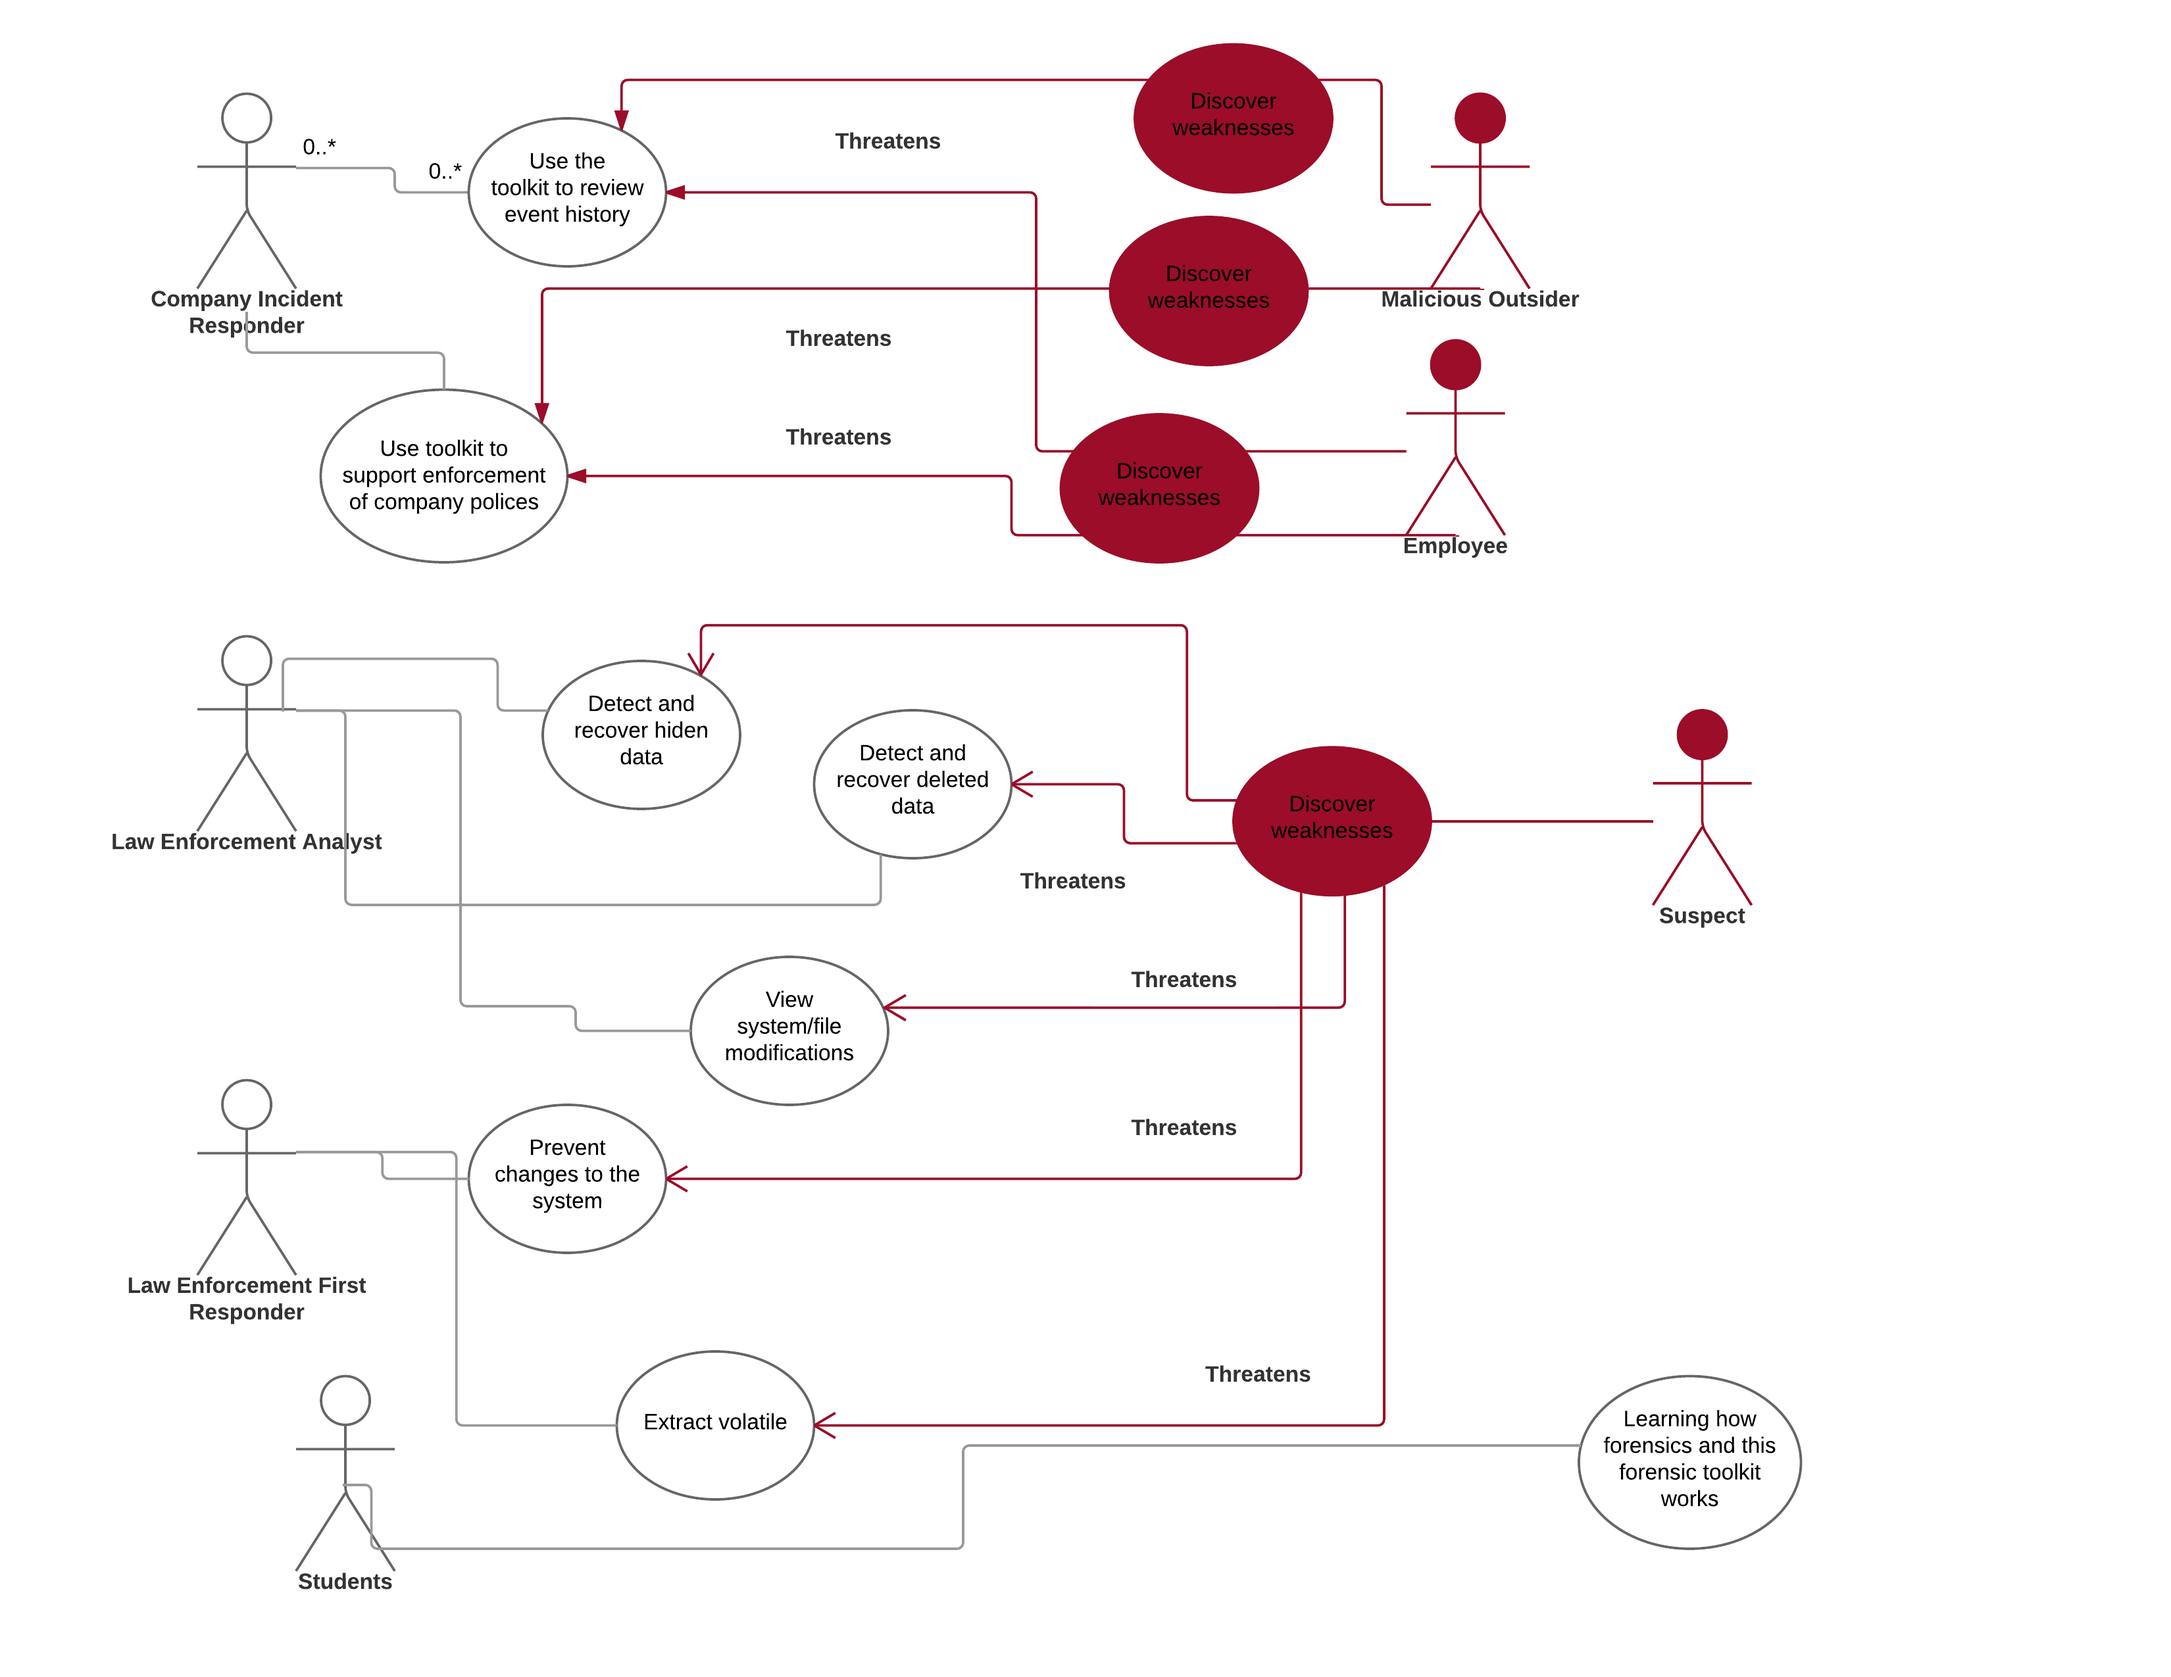
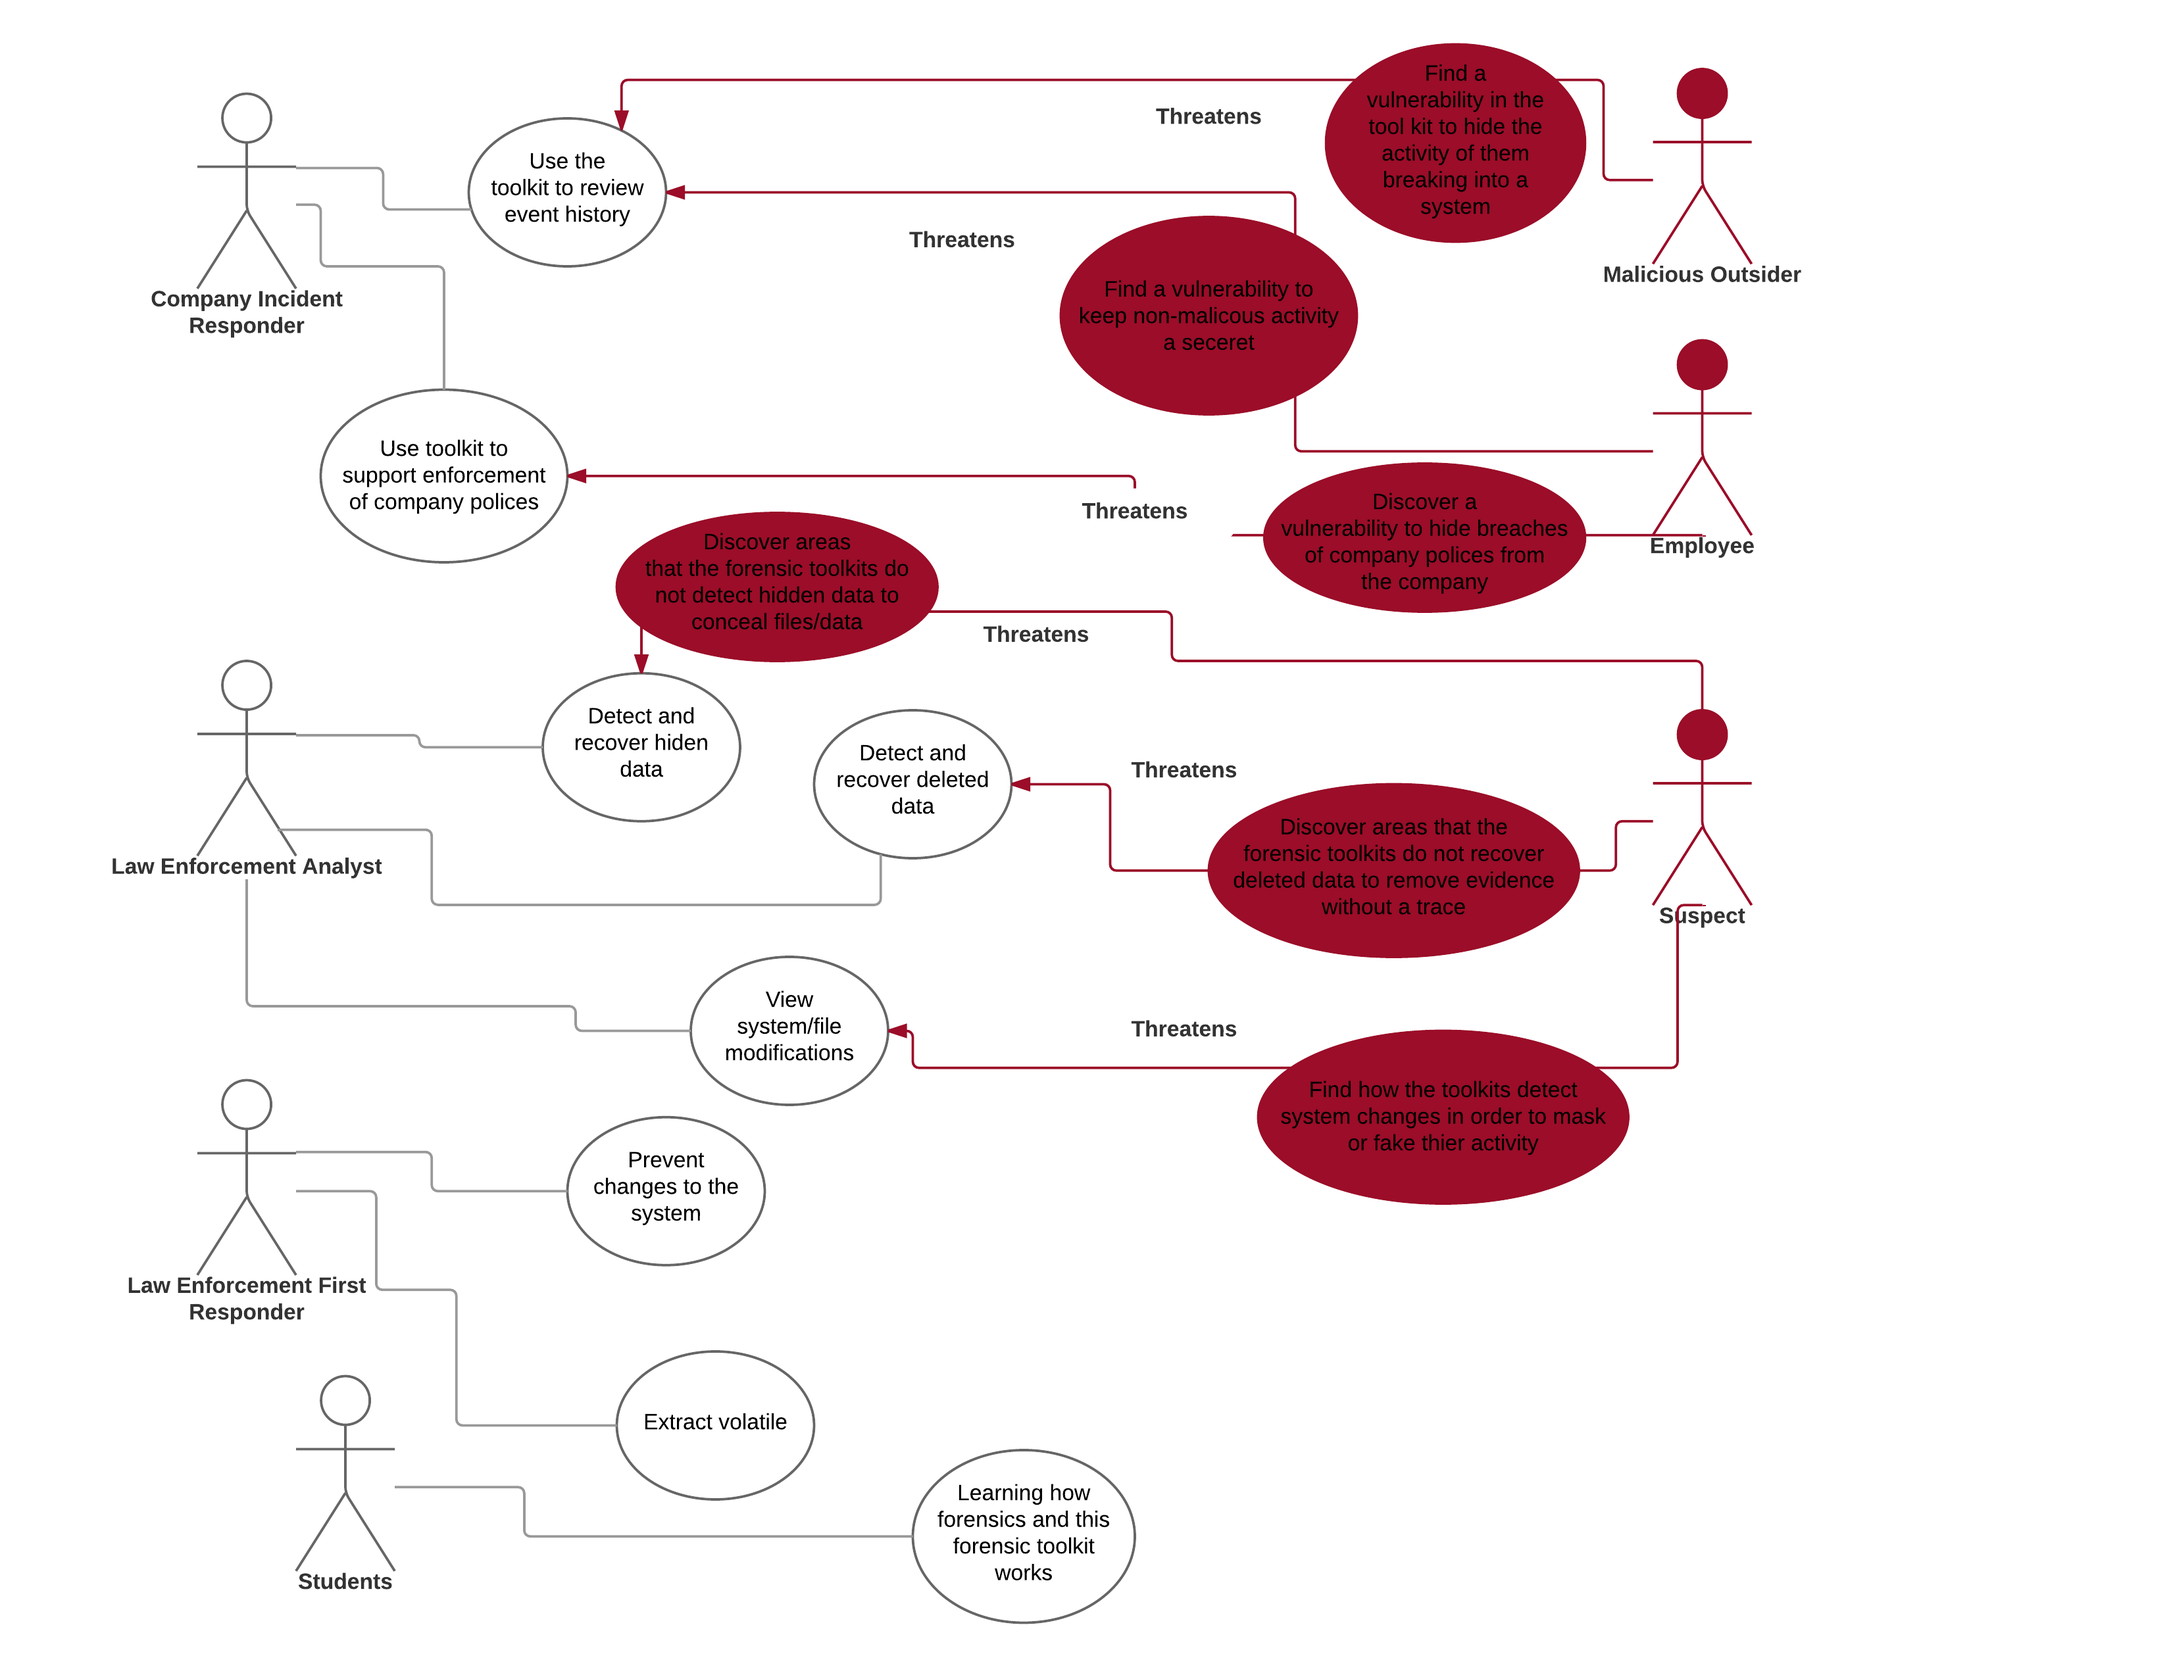
Updated README.md
Made suggested changes for Milestone 1 artifacts

diff --git a/README.md b/README.md
@@ -9,11 +9,11 @@
 
 ### Executive Project Summary
 
-An enormous amount of data from interconnected devices has set a new era of issues that law enforcement has to find solutions for. Since humans are so reliant on using this technology, it comes to no surprise that many people are using this powerful technology to commit crimes. Thus law enforcement are often tasked with collecting digital evidence that is admissible in the court of law.
+Law enforcement has a new era of issues to find solutions for due to the enormous amount of data from connected devices. Since humans are so reliant on using this technology, it comes to no surprise that many people are using this powerful technology to commit crimes. Thus, the task of collecting digital evidence that is admissible in court is left law enforcement.
 
-Given that law enforcement wants to collect and use digital evidence in court to aid in the identification and conviction of criminals, there will be criminals and people out there who will want to thwart this collection process. Thus the concept of anti-forensics is introduced. Through anti-forensics, wrong-doers aim to derail investigations by reducing not only the quality, but also the quantity of data that may be used as digital evidence. Through this, the investigation may provide little insight into the act committed, allowing the offending party to escape the consequences of their actions.
+Given that law enforcement wants to collect and use digital evidence in court to aid in the identification and conviction of criminals, there will be criminals and people out there who will want to thwart this collection process. This has evolved into the concept of anti-forensics. Through anti-forensics, wrong-doers aim to derail investigations by reducing the quality and quantity of potential digital evidence. Through this, the investigation may provide little insight into the act committed, allowing the offending party to escape the consequences of their actions.
 
-The goal of our research is to generate a report that shows the strengths and weaknesses of widely used forensics toolkits. This research will be broken down into sections of: researching Anti-forensics tools for data hiding, data alteration, and data destruction, popular all-in-one forensics toolkits, and researching documentation strategies for evaluating these forensics toolkits.
+The goal of our research is to generate a report that shows the strengths and weaknesses of widely used forensics toolkits. We will break down our research into the sections of: researching Anti-forensics tools for data hiding, data alteration, and data destruction, popular all-in-one forensics toolkits, and researching documentation strategies for evaluating these forensics toolkits.
 
 Then, the research will move to building a virtual machine that has these tools and techniques used on the virtual machine, conducting forensic investigations with the forensic toolkits, and writing reports on the results.
 
@@ -26,7 +26,7 @@ After this project concludes, law enforcement, incident response, and digital fo
 ### Project-Oriented Risk List
 
 | Risk name (value) | Impact | Likelihood | Description |
-|-|-|-|-|
+|---|---|---|---|
 | Can't find appropriate tools (25) |  5 | 5 | Tools do not exist or cannot be obtained to perform intended anti-forensic techniques. |
 | Loss of team member (20) | 10 | 2 | An unexpected incident prevents a team member from contributing during the time of this study.|
 | Tools don't work on VM (16) | 8 | 2 | Tools do not perform required functions when executed in a virtual environment. |
@@ -37,27 +37,27 @@ After this project concludes, law enforcement, incident response, and digital fo
 
 ##### User Story 1.
 As a **Computer Forensic Analyst**, I want to **detect and recover hidden data** so I can **spot trails of evidence**
-AC 1.1: Using the digital forensics tool, the location of data hidden within the context of the system can be identified.
-AC 1.2: Using the digital forensics tool is able to recover data hidden within a given location.
+- AC 1.1: Using the digital forensics tool, the location of data hidden within the context of the system can be identified.
+- AC 1.2: Using the digital forensics tool is able to recover data hidden within a given location.
 
 ##### User Story 2.
 As a **Computer Forensic Analyst**, I want to **detect and recover deleted data** so I can **support/define a suspect's intent**
-AC 2.1: The digital forensics tool is able to detect all files whose pointers have been deleted and have not been completely overwritten in the file system.
-AC 2.2: The digital forensics tool is able to recover all portions of a file that have not been overwritten in the file system.
+- AC 2.1: The digital forensics tool is able to detect all files whose pointers have been deleted and have not been completely overwritten in the file system.
+- AC 2.2: The digital forensics tool is able to recover all portions of a file that have not been overwritten in the file system.
 
 ##### User Story 3.
 As a **Computer Forensic Analyst**, I want to **detect system modifications** so I can **construct a timeline of actions taken**
-AC 3.1: The digital forensics tool is able to detect changes to system logs
-AC 3.2: The digital forensics tool is able to detect changes to file attributes
-AC 3.3: The digital forensics tool is able to detect changes to the registry
+- AC 3.1: The digital forensics tool is able to detect changes to system logs
+- AC 3.2: The digital forensics tool is able to detect changes to file attributes
+- AC 3.3: The digital forensics tool is able to detect changes to the registry
 
 ##### User Story 4.
 As a **Member of a Computer Incident Response Team**, I want to **view previous activity on a system** so I can **restore the system's availability**
-AC 4.1: The digital forensics tool is able to retrieve system logs
+- AC 4.1: The digital forensics tool is able to retrieve system configuration and settings, while also retrieving system activity logs.
 
 ##### User Story 5. 
 As a **Member of a Computer Incident Response Team**, I want to **audit actions taken internally** so I can **verify employee compliance with company policies**
-AC 5.1: The digital forensics tool is able to retrieve system logs
+- AC 5.1: The digital forensics tool is able to retrieve user files and permissions, while also retrieving usernames and user activity logs.
 
 #### Use Case Diagram
 ![UseCases](images/UseCases.png)
@@ -65,7 +65,7 @@ AC 5.1: The digital forensics tool is able to retrieve system logs
 ### Resources/Technology Needed
 
 |Resource  | Dr. Hale needed? | Investigating Team member | Description |
-|-|-|-|-|
+|---|---|---|---|
 | SANS Investigative Forensics Toolkit - SIFT | No | Casey | Target Forensics Toolkit |
 | FTK | No | Brandon | Target Forensics Toolkit |
 | Sleuth Kit | No | Preston | Target Forensics Toolkit |
